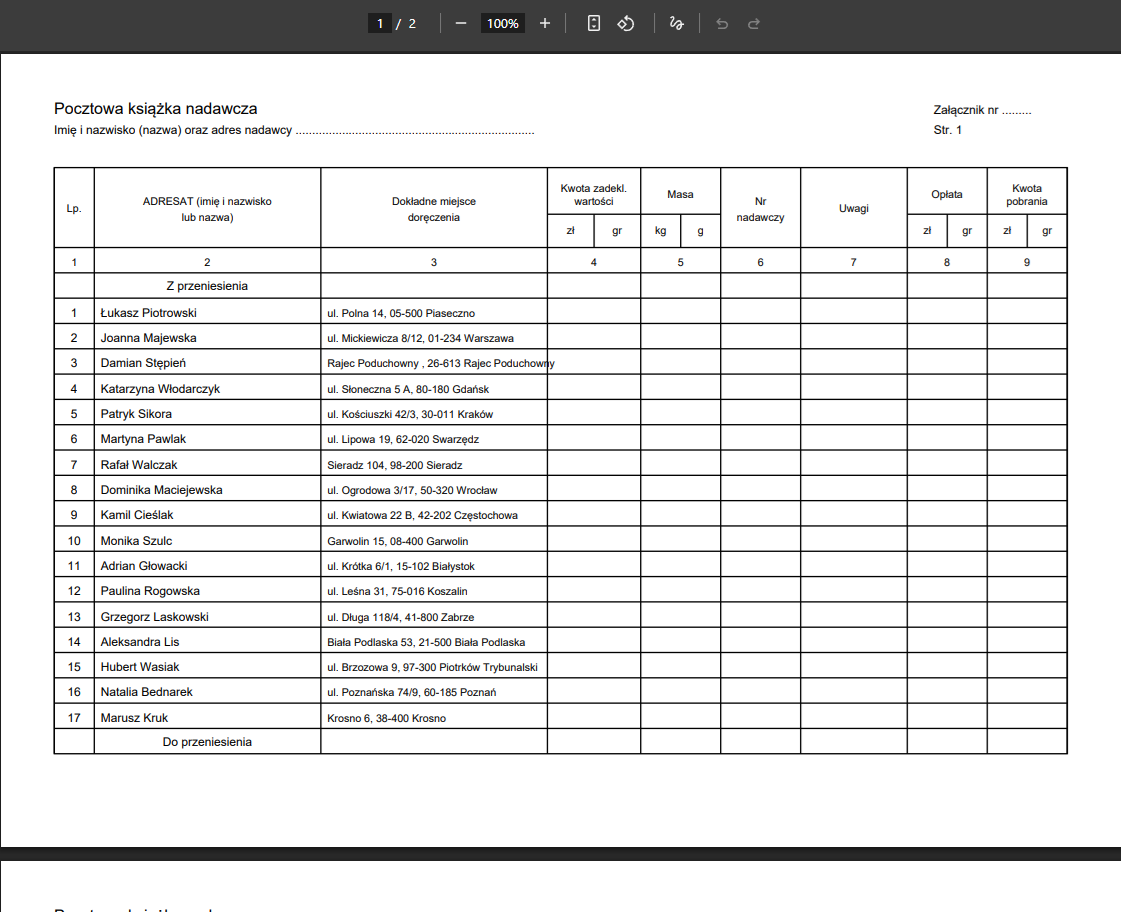
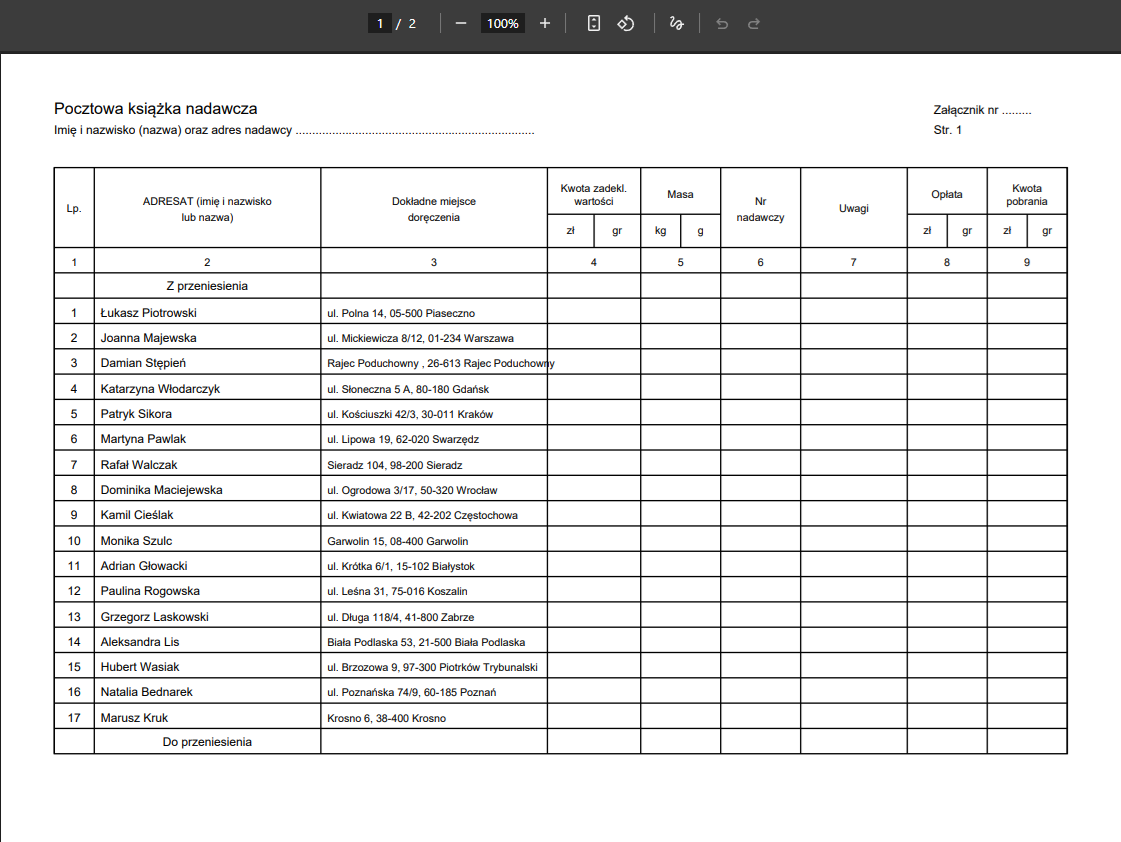
first coding showcase sorta live

diff --git a/en/coding/mailmerge.html b/en/coding/mailmerge.html
@@ -1,0 +1,121 @@
+<!DOCTYPE html>
+<html lang="en" class="scroll-smooth scroll-pt-24">
+<head>
+    <meta charset="UTF-8">
+    <meta name="viewport" content="width=device-width, initial-scale=1.0">
+
+    <title>Case Study: Bulk Mail Merge | Jan Tokarzewski</title>
+    <link rel="icon" type="image/png" href="img/favicon.png">
+    <meta name="description" content="Project Presentation: Bulk Mail Merge & Dispatch Register Generator.">
+
+    <link rel="preconnect" href="https://fonts.googleapis.com">
+    <link rel="preconnect" href="https://fonts.gstatic.com" crossorigin>
+    <link href="https://fonts.googleapis.com/css2?family=Cascadia+Code:wght@400;700&display=swap" rel="stylesheet">
+
+    <link rel="stylesheet" href="css/style.css">
+</head>
+<body class="bg-background text-textMain font-sans antialiased flex flex-col min-h-screen overflow-x-hidden">
+
+    <nav class="w-full py-4 px-4 sm:py-6 sm:px-12 flex justify-between items-center max-w-7xl mx-auto border-b-4 border-textMain bg-background sticky top-0 z-50 shadow-sm">
+        <a href="https://jantokarzewski.pl/en/coding" class="flex flex-col px-2 lg:hover:bg-accent active:bg-accent transition-none w-max">
+            <span class="font-display text-xl sm:text-2xl font-bold whitespace-nowrap">Jan Tokarzewski</span>
+            <span class="text-xs font-sans font-bold mt-0.5">Data, Automation & CMS.</span>
+        </a>
+        <div class="font-bold text-lg hidden sm:block">
+            Project Presentation
+        </div>
+    </nav>
+
+    <main class="flex-grow flex flex-col items-center w-full max-w-7xl mx-auto space-y-8 sm:space-y-12 px-3 sm:px-6 py-8 sm:py-12">
+
+        <section class="w-full bg-btnDark border-4 border-textMain px-4 py-8 sm:p-12 shadow-[4px_4px_0px_0px_#111827] sm:shadow-[8px_8px_0px_0px_#111827] text-left">
+            <div class="inline-block bg-accent border-2 border-textMain px-3 py-1 font-bold text-white shadow-[2px_2px_0px_0px_#111827] uppercase tracking-wider w-max mb-4 text-sm sm:text-base">
+                Data Formatting & DOCX
+            </div>
+            <h1 class="text-3xl sm:text-5xl font-bold uppercase tracking-tight mb-4 sm:mb-6">
+                Bulk Mail Merge & Dispatch Register Generator
+            </h1>
+            <p class="text-base sm:text-xl text-textMuted leading-relaxed max-w-4xl">
+                A standalone desktop application (.exe) automating the dispatch of bulk mailings. It replaces hours of manual data entry from raw CSV spreadsheets, generating print-ready postal packages in just a few minutes.
+            </p>
+        </section>
+
+        <section class="w-full bg-btnDark border-4 border-textMain p-4 sm:p-12 shadow-[4px_4px_0px_0px_#111827] sm:shadow-[8px_8px_0px_0px_#111827] space-y-8">
+
+            <!-- Step 1 -->
+            <div class="border-4 border-textMain bg-background p-6 sm:p-8 shadow-[4px_4px_0px_0px_#111827]">
+                <h2 class="text-2xl sm:text-3xl font-bold mb-3">1. Unstructured Input Data</h2>
+                <p class="text-textMuted text-base sm:text-lg mb-6 leading-relaxed">
+                    A raw CSV file containing the recipient list. It includes typical errors that prevent automated dispatch: typos in city names, missing house numbers, malformed postal codes, and inconsistent data formatting.
+                </p>
+
+                <div class="w-full border-4 border-textMain bg-[#e5e7eb] flex items-center justify-center overflow-hidden shadow-[4px_4px_0px_0px_#111827]">
+                    <img src="img/mailmerge/dane-z-bledami.png" alt="Unstructured input CSV database" class="w-full h-auto object-contain p-2">
+                </div>
+            </div>
+
+            <!-- Step 2 -->
+            <div class="border-4 border-textMain bg-background p-6 sm:p-8 shadow-[4px_4px_0px_0px_#111827]">
+                <h2 class="text-2xl sm:text-3xl font-bold mb-3">2. Dictionary Validation & Exception Queue</h2>
+                <p class="text-textMuted text-base sm:text-lg mb-6 leading-relaxed">
+                    The program verifies addresses against reference databases (e.g., TERYT). Correct records are processed in the background, while ambiguous entries are routed to a separate CSV exception report detailing the specific error (e.g., unknown postal code, invalid street name). This isolates issues without interrupting the entire workflow. The program never attempts to auto-correct data on its own, preventing the introduction of new errors.
+                </p>
+
+                <div class="w-full flex flex-col items-center gap-6">
+                    <div class="w-full max-w-4xl border-4 border-textMain bg-[#e5e7eb] flex items-center justify-center overflow-hidden shadow-[4px_4px_0px_0px_#111827]">
+                        <img src="img/mailmerge/program-po-przetworzeniu.png" alt="Error report inside the program" class="w-full h-auto object-contain p-2">
+                    </div>
+                    <div class="w-full max-w-4xl border-4 border-textMain bg-[#e5e7eb] flex items-center justify-center overflow-hidden shadow-[4px_4px_0px_0px_#111827]">
+                        <img src="img/mailmerge/adresy_do_poprawy.png" alt="Isolated addresses requiring correction" class="w-full h-auto object-contain p-2">
+                    </div>
+                </div>
+            </div>
+
+            <!-- Step 3 -->
+            <div class="border-4 border-textMain bg-background p-6 sm:p-8 shadow-[4px_4px_0px_0px_#111827]">
+                <h2 class="text-2xl sm:text-3xl font-bold mb-3">3. Post-Correction Merge</h2>
+                <p class="text-textMuted text-base sm:text-lg mb-6 leading-relaxed">
+                    After a quick manual correction of only the faulty entries in the auxiliary file, the tool merges the corrected data with the main database and immediately proceeds to generate the document packages.
+                </p>
+
+                <div class="w-full border-4 border-textMain bg-[#e5e7eb] flex items-center justify-center overflow-hidden shadow-[4px_4px_0px_0px_#111827]">
+                    <img src="img/mailmerge/koniec-pracy-programu..png" alt="Completion message and file generation" class="w-full h-auto object-contain p-2">
+                </div>
+            </div>
+
+            <!-- Step 4 -->
+            <div class="border-4 border-textMain bg-background p-6 sm:p-8 shadow-[4px_4px_0px_0px_#111827]">
+                <h2 class="text-2xl sm:text-3xl font-bold mb-3">4. Final Production Packages</h2>
+                <p class="text-textMuted text-base sm:text-lg mb-6 leading-relaxed">
+                    As output, the program generates personalized envelope templates in .docx format (ready for printing in the selected layout) and a complete dispatch register in PDF format, fully compliant with official post standards.
+                </p>
+
+                <div class="w-full flex flex-col items-center gap-6">
+                    <div class="w-full max-w-4xl border-4 border-textMain bg-[#e5e7eb] flex items-center justify-center overflow-hidden shadow-[4px_4px_0px_0px_#111827]">
+                        <img src="img/mailmerge/koperty-gotowe.png" alt="Generated envelopes in DOCX format" class="w-full h-auto object-contain p-2">
+                    </div>
+                    <div class="w-full max-w-4xl border-4 border-textMain bg-[#e5e7eb] flex items-center justify-center overflow-hidden shadow-[4px_4px_0px_0px_#111827]">
+                        <img src="img/mailmerge/ksiazka-nadawcza.png" alt="Generated dispatch register in PDF" class="w-full h-auto object-contain p-2">
+                    </div>
+                </div>
+            </div>
+
+        </section>
+
+        <div class="w-full flex flex-col sm:flex-row justify-between items-center gap-4 pt-4">
+            <a href="https://jantokarzewski.pl/en/coding" class="bg-background border-4 border-textMain px-6 py-3 font-bold shadow-[4px_4px_0px_0px_#111827] lg:hover:bg-accent lg:hover:text-white active:bg-accent active:text-white transition-none text-center w-full sm:w-auto">
+                Go back
+            </a>
+            <a href="https://jantokarzewski.pl/en/coding#contact" class="bg-accent border-4 border-textMain text-white px-8 py-3 font-bold shadow-[4px_4px_0px_0px_#111827] lg:hover:bg-textMain active:bg-textMain transition-none text-center w-full sm:w-auto">
+                Contact me
+            </a>
+        </div>
+
+    </main>
+
+    <footer class="w-full py-8 text-center border-t-4 border-textMain bg-textMain text-background mt-auto">
+        <p class="font-bold text-sm sm:text-base">© 2026 Jan Tokarzewski.</p>
+    </footer>
+
+</body>
+</html>

diff --git a/kod/korespondencja.html b/kod/korespondencja.html
@@ -36,17 +36,16 @@
                 Generator Korespondencji Masowej
             </h1>
             <p class="text-base sm:text-xl text-textMuted leading-relaxed max-w-4xl">
-                Samodzielna aplikacja desktopowa (.exe) automatyzująca wysyłkę korespondencji masowej. Zastępuje kilkanaście godzin ręcznego przepisywania danych z arkuszy Excel, generując gotowe pakiety pocztowe w zaledwie kilka minut.
+                Samodzielna aplikacja desktopowa (.exe) automatyzująca wysyłkę korespondencji masowej. Zastępuje kilkanaście godzin ręcznego przepisywania danych z arkuszy .csv, generując gotowe pakiety pocztowe.
             </p>
         </section>
 
         <section class="w-full bg-btnDark border-4 border-textMain p-4 sm:p-12 shadow-[4px_4px_0px_0px_#111827] sm:shadow-[8px_8px_0px_0px_#111827] space-y-8">
 
-            <!-- Krok 1 -->
             <div class="border-4 border-textMain bg-background p-6 sm:p-8 shadow-[4px_4px_0px_0px_#111827]">
                 <h2 class="text-2xl sm:text-3xl font-bold mb-3">1. Nieuporządkowana baza wejściowa</h2>
                 <p class="text-textMuted text-base sm:text-lg mb-6 leading-relaxed">
-                    Surowy plik CSV z listą odbiorców. Zawiera typowe błędy uniemożliwiające automatyczną wysyłkę: literówki w nazwach miejscowości, brakujące numery domów, zniekształcone kody pocztowe oraz nieujednolicone formatowanie danych.
+                    Surowy plik CSV z listą odbiorców. Zawiera typowe błędy uniemożliwiające automatyczną wysyłkę: literówki, brakujące dane oraz błędne kody pocztowe.
                 </p>
 
                 <div class="w-full border-4 border-textMain bg-[#e5e7eb] flex items-center justify-center overflow-hidden shadow-[4px_4px_0px_0px_#111827]">
@@ -54,48 +53,45 @@
                 </div>
             </div>
 
-            <!-- Krok 2 -->
             <div class="border-4 border-textMain bg-background p-6 sm:p-8 shadow-[4px_4px_0px_0px_#111827]">
                 <h2 class="text-2xl sm:text-3xl font-bold mb-3">2. Walidacja słownikowa i kolejka wyjątków</h2>
                 <p class="text-textMuted text-base sm:text-lg mb-6 leading-relaxed">
-                    Program weryfikuje adresy w oparciu o bazy referencyjne (m.in. TERYT). Poprawne rekordy są przetwarzane w tle, a niejednoznaczne wpisy trafiają do osobnego raportu CSV z precyzyjną informacją o przyczynie błędu (np. kod poza bazą, błędna nazwa ulicy), izolując problemy bez przerywania całego procesu.
+                    Program weryfikuje adresy w oparciu o bazy referencyjne (m.in. TERYT). Poprawne rekordy są przetwarzane w tle, a niejednoznaczne wpisy trafiają do osobnego raportu CSV z precyzyjną informacją o przyczynie błędu (np. kod poza bazą, błędna nazwa ulicy), izolując problemy bez przerywania całego procesu. Program nigdy nie spróbuje naprawić danych samodzielnie, co pozwala na uniknięcie dodatkowych błędów.
                 </p>
 
-                <div class="w-full grid grid-cols-1 lg:grid-cols-2 gap-4">
-                    <div class="w-full border-4 border-textMain bg-[#e5e7eb] flex items-center justify-center overflow-hidden shadow-[4px_4px_0px_0px_#111827]">
-                        <img src="img/koperty/program-po-przetworzeniu.png" alt="Raport błędów w programie" class="w-full h-auto max-h-[400px] object-contain p-2">
+                <div class="w-full flex flex-col items-center gap-6">
+                    <div class="w-full max-w-4xl border-4 border-textMain bg-[#e5e7eb] flex items-center justify-center overflow-hidden shadow-[4px_4px_0px_0px_#111827]">
+                        <img src="img/koperty/program-po-przetworzeniu.png" alt="Raport błędów w programie" class="w-full h-auto object-contain p-2">
                     </div>
-                    <div class="w-full border-4 border-textMain bg-[#e5e7eb] flex items-center justify-center overflow-hidden shadow-[4px_4px_0px_0px_#111827]">
-                        <img src="img/koperty/adresy_do_poprawy.png" alt="Wyizolowane adresy do poprawy" class="w-full h-auto max-h-[400px] object-contain p-2">
+                    <div class="w-full max-w-4xl border-4 border-textMain bg-[#e5e7eb] flex items-center justify-center overflow-hidden shadow-[4px_4px_0px_0px_#111827]">
+                        <img src="img/koperty/adresy_do_poprawy.png" alt="Wyizolowane adresy do poprawy" class="w-full h-auto object-contain p-2">
                     </div>
                 </div>
             </div>
 
-            <!-- Krok 3 -->
             <div class="border-4 border-textMain bg-background p-6 sm:p-8 shadow-[4px_4px_0px_0px_#111827]">
                 <h2 class="text-2xl sm:text-3xl font-bold mb-3">3. Scalenie po korekcie</h2>
                 <p class="text-textMuted text-base sm:text-lg mb-6 leading-relaxed">
-                    Po szybkiej korekcie wyłącznie błędnych pozycji w pliku pomocniczym, narzędzie łączy poprawione dane z główną bazą i natychmiast przechodzi do generowania paczek z dokumentami.
+                    Po korekcie błędnych pozycji w pliku pomocniczym, narzędzie łączy poprawione dane z główną bazą i przechodzi do generowania dokumentów.
                 </p>
 
                 <div class="w-full border-4 border-textMain bg-[#e5e7eb] flex items-center justify-center overflow-hidden shadow-[4px_4px_0px_0px_#111827]">
-                    <img src="img/koperty/koniec-pracy-programu..png" alt="Komunikat o zakończeniu pracy i wygenerowaniu plików" class="w-full h-auto max-h-[500px] object-contain p-2">
+                    <img src="img/koperty/koniec-pracy-programu..png" alt="Komunikat o zakończeniu pracy i wygenerowaniu plików" class="w-full h-auto object-contain p-2">
                 </div>
             </div>
 
-            <!-- Krok 4 -->
             <div class="border-4 border-textMain bg-background p-6 sm:p-8 shadow-[4px_4px_0px_0px_#111827]">
                 <h2 class="text-2xl sm:text-3xl font-bold mb-3">4. Gotowe pakiety produkcyjne</h2>
                 <p class="text-textMuted text-base sm:text-lg mb-6 leading-relaxed">
-                    Na wyjściu program generuje spersonalizowane szablony kopert w formacie .docx (gotowe do druku w wybranym układzie) oraz kompletną książkę nadawczą w formacie PDF, zgodną z obowiązującymi standardami Poczty Polskiej.
+                    Na wyjściu program generuje szablony kopert w formacie .docx, oraz kompletną książkę nadawczą w formacie PDF, zgodną z obowiązującymi standardami Poczty Polskiej.
                 </p>
 
-                <div class="w-full grid grid-cols-1 lg:grid-cols-2 gap-4">
-                    <div class="w-full border-4 border-textMain bg-[#e5e7eb] flex items-center justify-center overflow-hidden shadow-[4px_4px_0px_0px_#111827]">
-                        <img src="img/koperty/koperty-gotowe.png" alt="Wygenerowane koperty w formacie DOCX" class="w-full h-auto max-h-[400px] object-contain p-2">
+                <div class="w-full flex flex-col items-center gap-6">
+                    <div class="w-full max-w-4xl border-4 border-textMain bg-[#e5e7eb] flex items-center justify-center overflow-hidden shadow-[4px_4px_0px_0px_#111827]">
+                        <img src="img/koperty/koperty-gotowe.png" alt="Wygenerowane koperty w formacie DOCX" class="w-full h-auto object-contain p-2">
                     </div>
-                    <div class="w-full border-4 border-textMain bg-[#e5e7eb] flex items-center justify-center overflow-hidden shadow-[4px_4px_0px_0px_#111827]">
-                        <img src="img/koperty/ksiazka-nadawcza.png" alt="Wygenerowana książka nadawcza w PDF" class="w-full h-auto max-h-[400px] object-contain p-2">
+                    <div class="w-full max-w-4xl border-4 border-textMain bg-[#e5e7eb] flex items-center justify-center overflow-hidden shadow-[4px_4px_0px_0px_#111827]">
+                        <img src="img/koperty/ksiazka-nadawcza.png" alt="Wygenerowana książka nadawcza w PDF" class="w-full h-auto object-contain p-2">
                     </div>
                 </div>
             </div>
